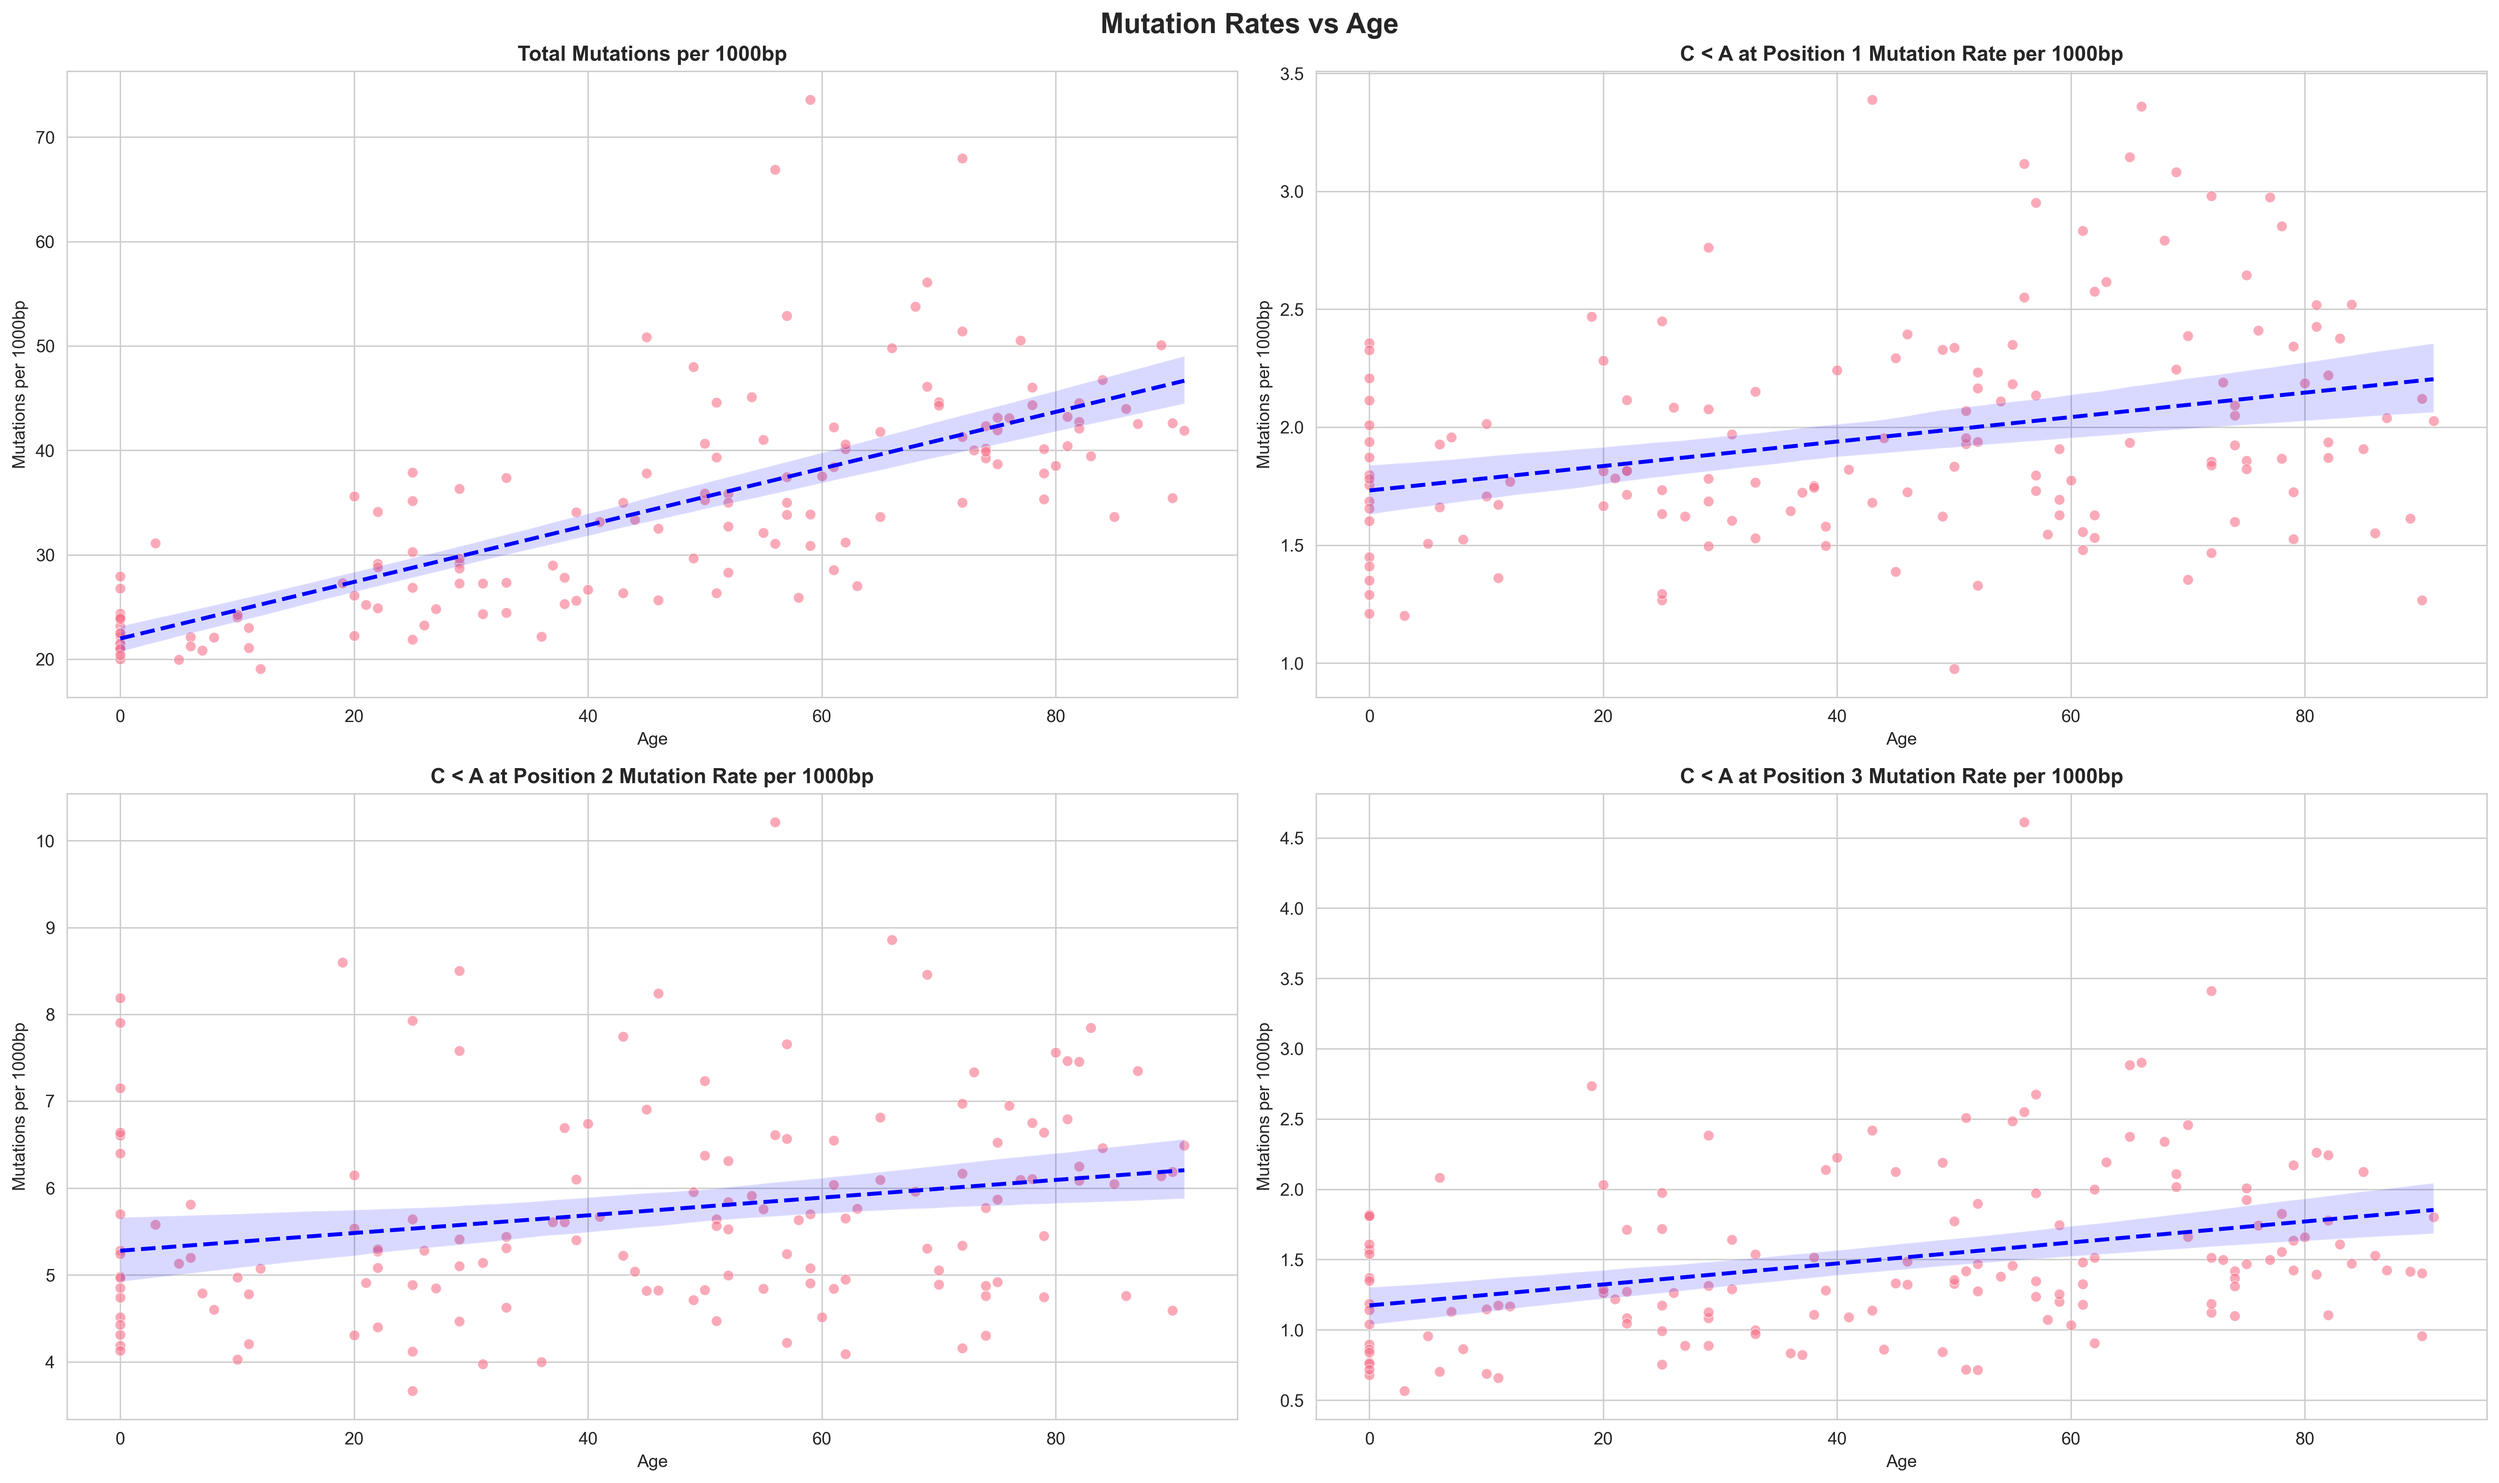
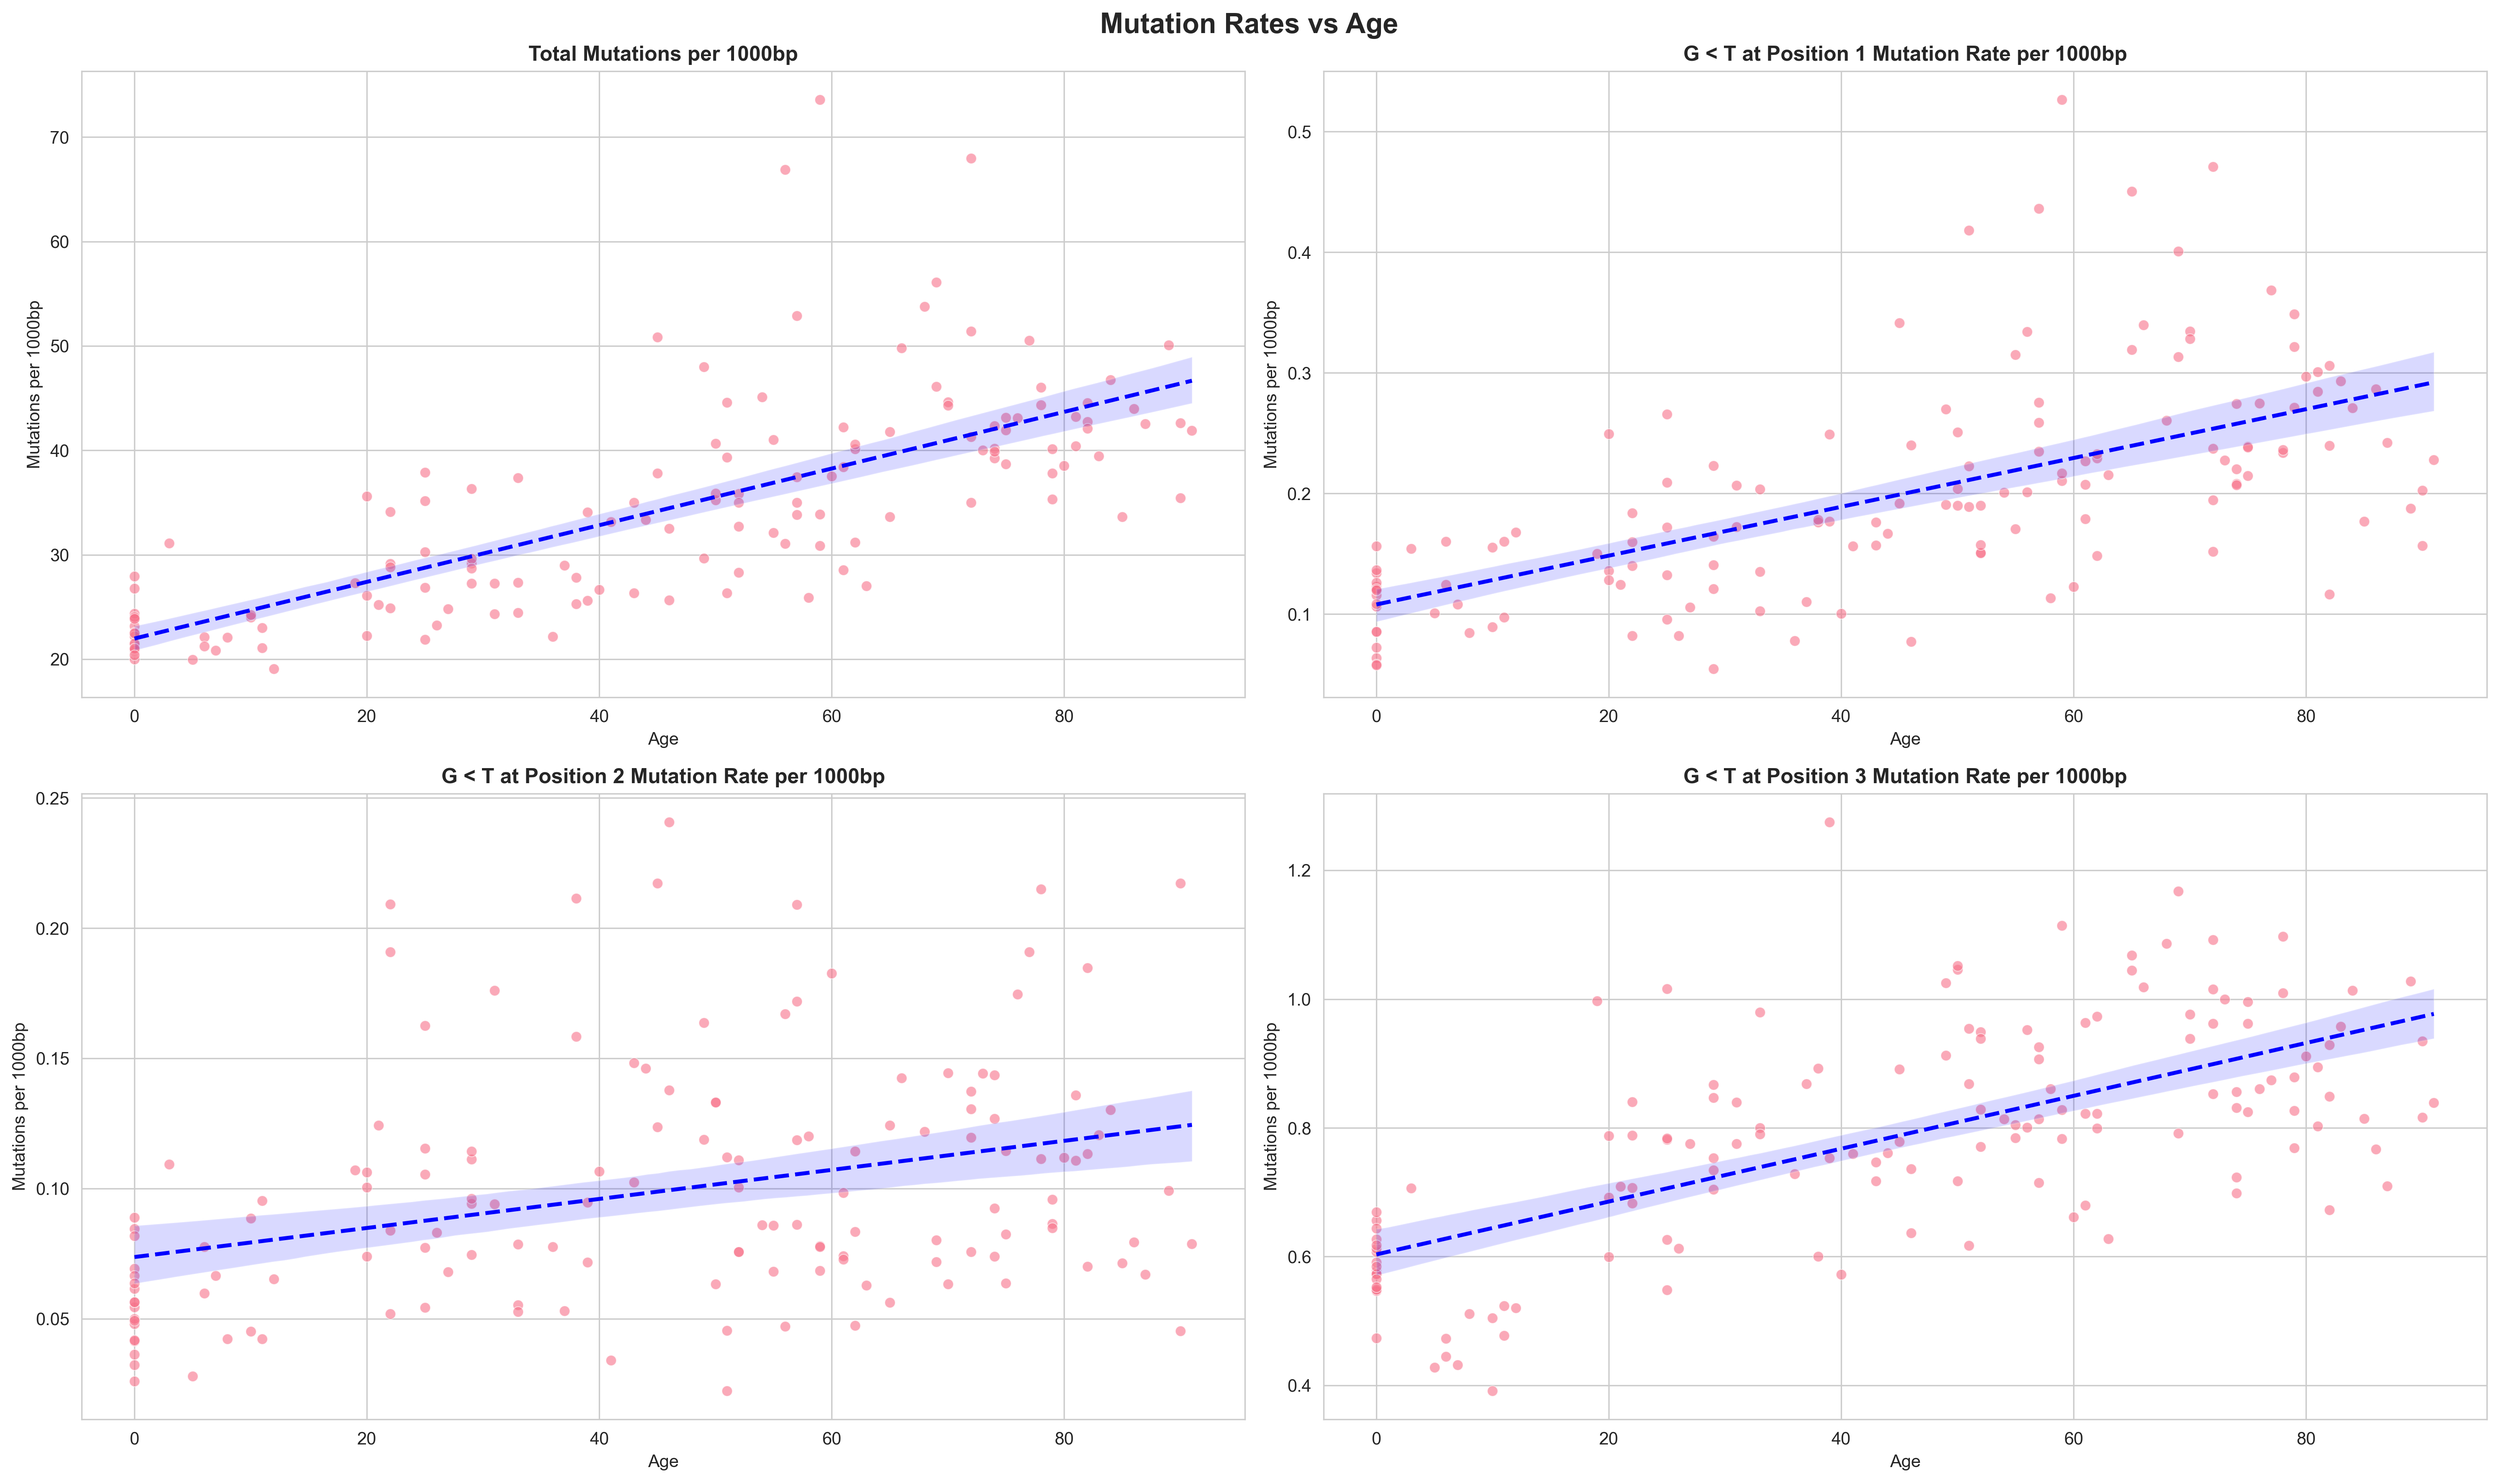
Remove outdated spearman_correlation.png and update trendline.py to change mutation rate variables from C to G, reflecting the new analysis focus. Update trendline.png to align with the changes in mutation rate representation.

diff --git a/trendline.py b/trendline.py
@@ -15,16 +15,16 @@ def plot_trendlines(data, output_path):
     # Define the variables to plot
     variables = [
         'total_mutations_over_total_g_per_1k',
-        'C_A_c1_per_1k',  # pos1 mutation rate
-        'C_A_c2_per_1k',  # pos2 mutation rate  
-        'C_A_c3_per_1k'   # pos3 mutation rate
+        'G_T_g1_per_1k',  # pos1 mutation rate
+        'G_T_g2_per_1k',  # pos2 mutation rate  
+        'G_T_g3_per_1k'   # pos3 mutation rate
     ]
     
     titles = [
         'Total Mutations per 1000bp',
-        'C < A at Position 1 Mutation Rate per 1000bp',
-        'C < A at Position 2 Mutation Rate per 1000bp',
-        'C < A at Position 3 Mutation Rate per 1000bp'
+        'G < T at Position 1 Mutation Rate per 1000bp',
+        'G < T at Position 2 Mutation Rate per 1000bp',
+        'G < T at Position 3 Mutation Rate per 1000bp'
     ]
     
     # Plot each variable
@@ -63,15 +63,15 @@ def plot_spearman_correlations(data, output_path):
     
     variables = [
         'total_mutations_over_total_g_per_1k',
-        'C_A_c1_per_1k',
-        'C_A_c2_per_1k',
-        'C_A_c3_per_1k'
+        'G_T_g1_per_1k',
+        'G_T_g2_per_1k',
+        'G_T_g3_per_1k'
     ]
     titles = [
         'Total Mutations per 1000bp',
-        'C < A at Position 1 Mutation Rate per 1000bp',
-        'C < A at Position 2 Mutation Rate per 1000bp',
-        'C < A at Position 3 Mutation Rate per 1000bp'
+        'G < T at Position 1 Mutation Rate per 1000bp',
+        'G < T at Position 2 Mutation Rate per 1000bp',
+        'G < T at Position 3 Mutation Rate per 1000bp'
     ]
     
     fig, axes = plt.subplots(2, 2, figsize=(20, 12))
